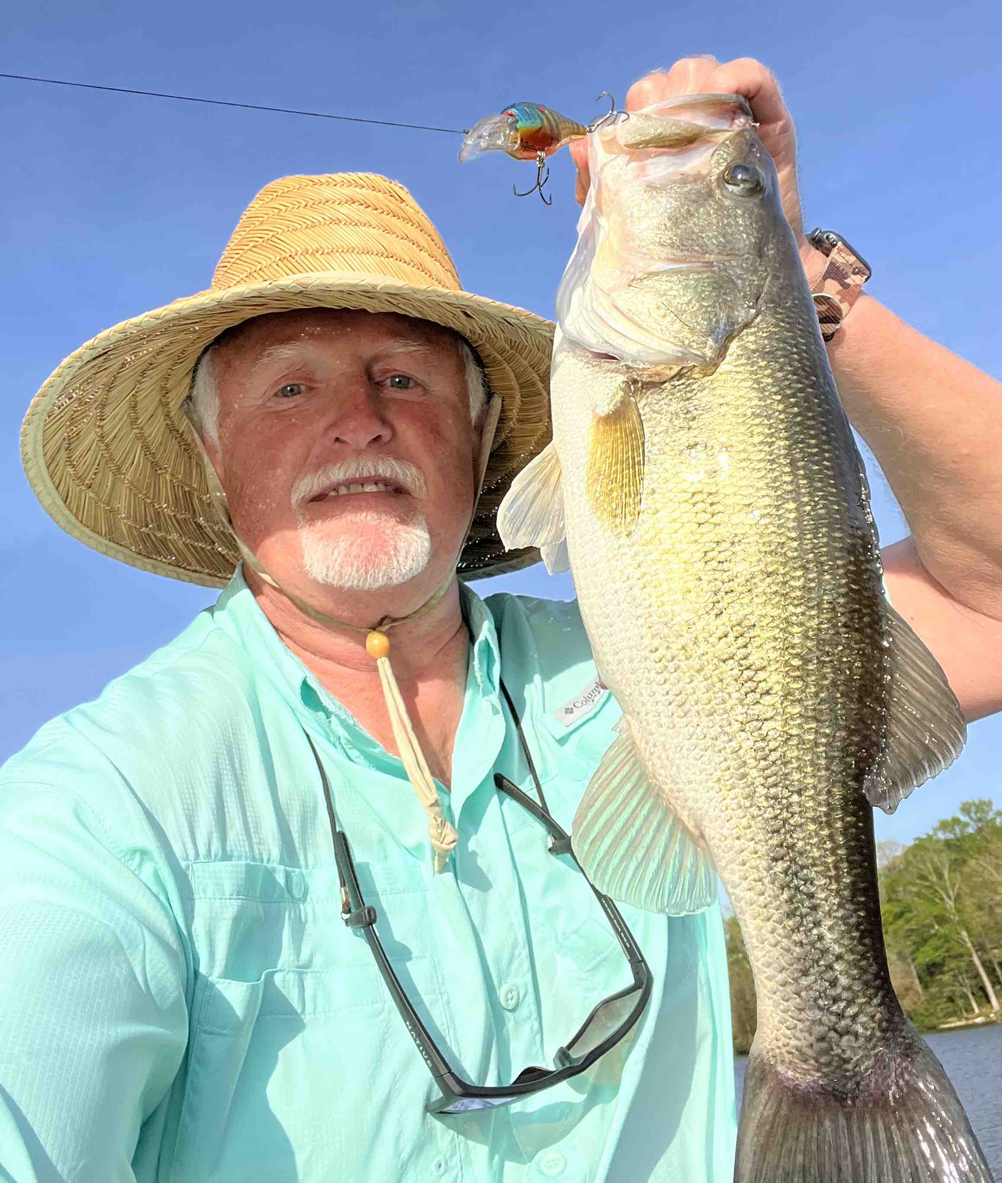
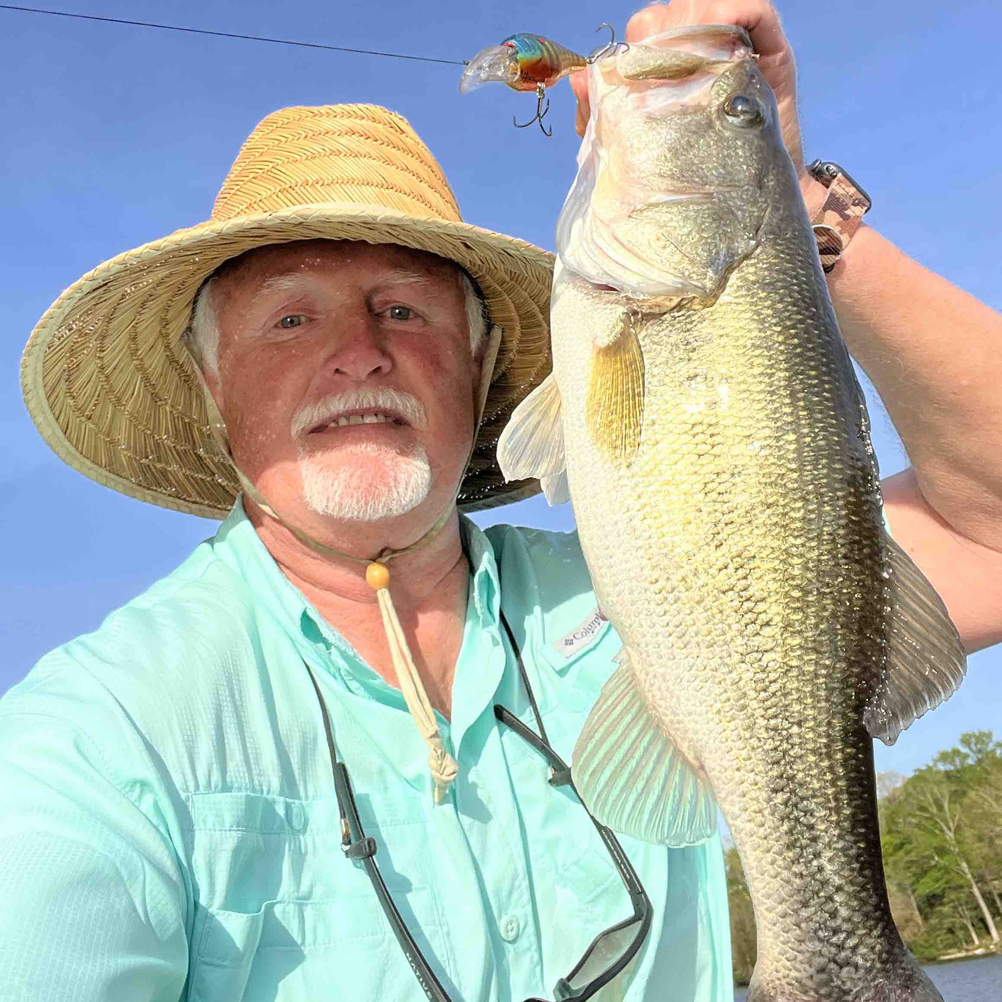
resized images & added image to home slider

diff --git a/braggin-board.html b/braggin-board.html
@@ -182,6 +182,14 @@ SPDX-License-Identifier: Apache-2.0
                 </div>
                 <span class="mobile-span"></span>
                 <div class="customer-wrapper">
+                    <img class="item-img" tabindex="0" src="./style/images/c_EthanS_Bass2.jpg" alt="Image of Ethan S with a monster 4 lbs bass caught using a TSA Firecraw Flatside lure">
+                    <a><b>Customer:</b> Ethan S</a>
+                    <a><b>Weight:</b> 4 lbs</a>
+                    <a><b>Lure:</b> Firecraw Flatside</a>
+                    <a><b>Location:</b> VA</a>
+                </div>
+                <span class="mobile-span"></span>
+                <div class="customer-wrapper">
                     <img class="item-img" tabindex="0" src="./style/images/c_RonaldJ_Bass.jpg" alt="Image of Rondald J with a monster 6 lbs bass caught using a TSA Firecraw S Crank lure">
                     <a><b>Customer:</b> Ronald J</a>
                     <a><b>Weight:</b> 6 lbs</a>
@@ -221,7 +229,7 @@ SPDX-License-Identifier: Apache-2.0
                     <a>Medium Diving</a>
                     <a><b>Location:</b> NC</a>
                 </div> <span class="mobile-span"></span><div class="customer-wrapper">
-                    <img class="item-img" tabindex="0" src="./style/images/c_prioli_fish.JPG" alt="Image of John P with a monster 4 lbs bass caught using a TSA Fire Craw lure">
+                    <img class="item-img" tabindex="0" src="./style/images/c_prioli_bragginBass.JPG" alt="Image of John P with a monster 4 lbs bass caught using a TSA Fire Craw lure">
                     <a><b>Customer:</b> John P</a>
                     <a><b>Weight:</b> 4 lbs</a>
                     <a><b>Lure:</b> Fire Craw</a>

diff --git a/modules/imageTransition.js b/modules/imageTransition.js
@@ -10,7 +10,7 @@ let imgNum = 0;
 let isPaused = false;
 
 const resetImgNum = (num) => {
-    if (num === 5) {
+    if (num === 6) {
         imgNum = 0;
     } else {
         return;
@@ -21,12 +21,13 @@ const imageTransition = () => {
     homeWrapper.style.transition = '2s ease-in-out';
     const imgArr = [
         "./style/images/new_firecraw.jpg",
+        "./style/images/c_Kevin_Slideshow.jpg",
         "./style/images/c_invertED_NatBornGiller.jpeg",
         "./style/images/c_Ian_M450.jpeg",
         "./style/images/bluegill.jpg",
         "./style/images/c_Ethan_Slideshow.jpg"
     ];
-    if (imgNum === 0 || imgNum === 5) {
+    if (imgNum === 0 || imgNum === 6) {
         resetImgNum(imgNum);
         homeWrapper.style.backgroundImage = `url("${imgArr[imgNum]}")`;
         imgNum++;
@@ -44,6 +45,10 @@ const imageTransition = () => {
         imgNum++;
     }
     else if (imgNum === 4) {
+        homeWrapper.style.backgroundImage = `url("${imgArr[imgNum]}")`;
+        imgNum++;
+    }
+    else if (imgNum === 5) {
         homeWrapper.style.backgroundImage = `url("${imgArr[imgNum]}")`;
         imgNum++;
     }
